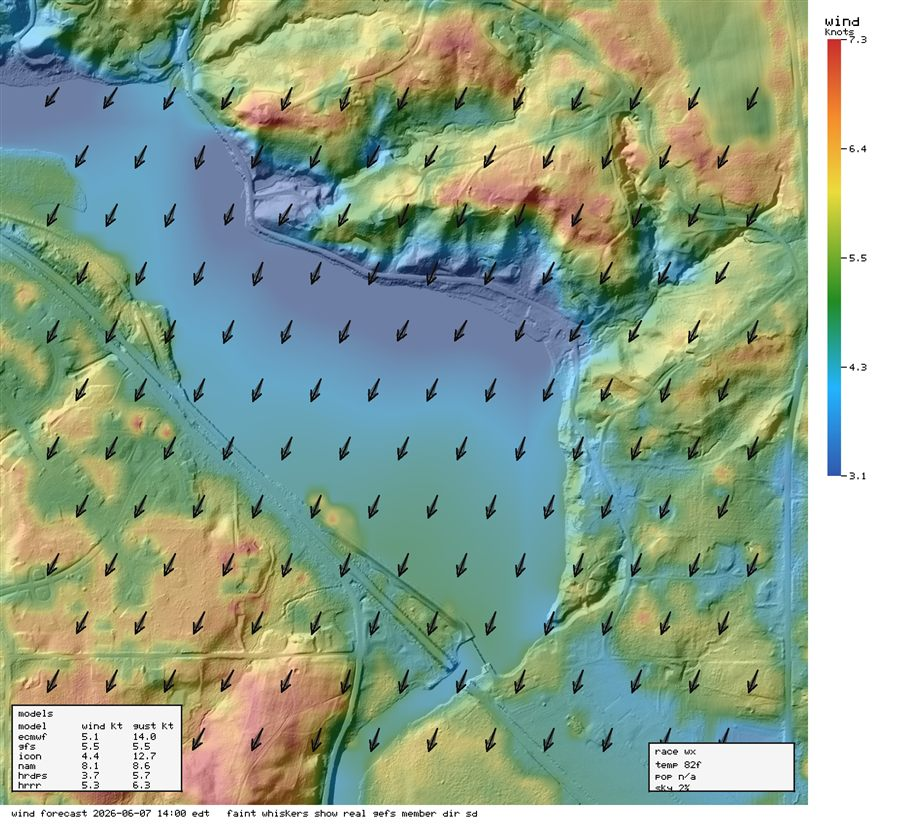
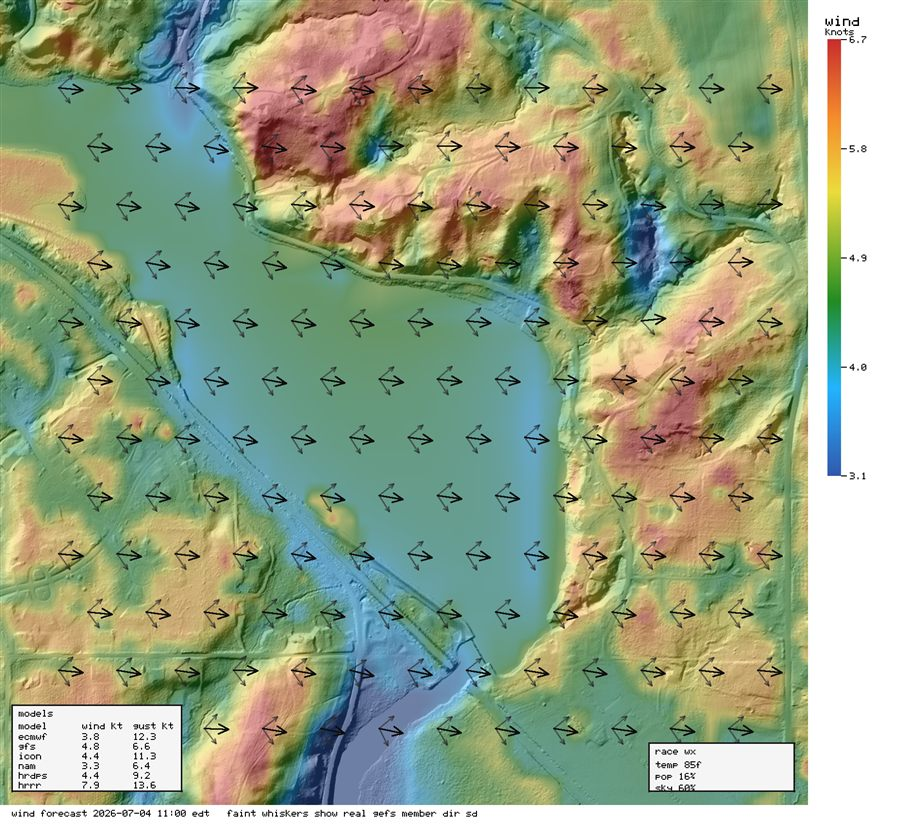
Publish latest PondWind report 2026-07-04 1300

diff --git a/index.html b/index.html
@@ -10,64 +10,64 @@
   <header class="site-header">
     <p class="eyebrow">PondWind</p>
     <h1>Latest Report</h1>
-    <p class="subtitle">Race time: 2026-06-07T14:00:00-04:00</p>
-    <p class="meta">Site: barton_pond &middot; Published: 2026-06-07T15:05:29.5376494Z</p>
+    <p class="subtitle">Race time: 2026-07-04T13:00:00-04:00</p>
+    <p class="meta">Site: barton_pond &middot; Published: 2026-07-03T13:41:22.2967719Z</p>
   </header>
   <main class="product-grid">
       <article class="product-card">
         <div class="product-meta">Wind</div>
         <h2>Wind Speed Prediction</h2>
-        <a href="latest/images/product_1_wind_speed_prediction_knots.png?v=2026-06-07T15%3A05%3A29.5376494Z"><img src="latest/images/product_1_wind_speed_prediction_knots.png?v=2026-06-07T15%3A05%3A29.5376494Z" alt="Wind Speed Prediction"></a>
+        <a href="latest/images/product_1_wind_speed_prediction_knots.png?v=2026-07-03T13%3A41%3A22.2967719Z"><img src="latest/images/product_1_wind_speed_prediction_knots.png?v=2026-07-03T13%3A41%3A22.2967719Z" alt="Wind Speed Prediction"></a>
       </article>
       <article class="product-card">
         <div class="product-meta">Wind</div>
         <h2>Wind Speed Ensemble SD</h2>
-        <a href="latest/images/product_2_wind_speed_variance_knots.png?v=2026-06-07T15%3A05%3A29.5376494Z"><img src="latest/images/product_2_wind_speed_variance_knots.png?v=2026-06-07T15%3A05%3A29.5376494Z" alt="Wind Speed Ensemble SD"></a>
+        <a href="latest/images/product_2_wind_speed_variance_knots.png?v=2026-07-03T13%3A41%3A22.2967719Z"><img src="latest/images/product_2_wind_speed_variance_knots.png?v=2026-07-03T13%3A41%3A22.2967719Z" alt="Wind Speed Ensemble SD"></a>
       </article>
       <article class="product-card">
         <div class="product-meta">Wind</div>
         <h2>Wind Direction Ensemble SD</h2>
-        <a href="latest/images/product_3_wind_direction_variance_degrees.png?v=2026-06-07T15%3A05%3A29.5376494Z"><img src="latest/images/product_3_wind_direction_variance_degrees.png?v=2026-06-07T15%3A05%3A29.5376494Z" alt="Wind Direction Ensemble SD"></a>
+        <a href="latest/images/product_3_wind_direction_variance_degrees.png?v=2026-07-03T13%3A41%3A22.2967719Z"><img src="latest/images/product_3_wind_direction_variance_degrees.png?v=2026-07-03T13%3A41%3A22.2967719Z" alt="Wind Direction Ensemble SD"></a>
       </article>
       <article class="product-card">
         <div class="product-meta">Experimental CFD</div>
         <h2>Experimental CFD/Adapter Comparison</h2>
-        <a href="latest/images/product_4_openfoam_experimental_cfd_knots.png?v=2026-06-07T15%3A05%3A29.5376494Z"><img src="latest/images/product_4_openfoam_experimental_cfd_knots.png?v=2026-06-07T15%3A05%3A29.5376494Z" alt="Experimental CFD/Adapter Comparison"></a>
+        <a href="latest/images/product_4_openfoam_experimental_cfd_knots.png?v=2026-07-03T13%3A41%3A22.2967719Z"><img src="latest/images/product_4_openfoam_experimental_cfd_knots.png?v=2026-07-03T13%3A41%3A22.2967719Z" alt="Experimental CFD/Adapter Comparison"></a>
       </article>
       <article class="product-card">
         <div class="product-meta">Experimental CFD</div>
         <h2>Experimental CFD Turbulence Intensity</h2>
-        <a href="latest/images/product_5_openfoam_turbulence_intensity_percent.png?v=2026-06-07T15%3A05%3A29.5376494Z"><img src="latest/images/product_5_openfoam_turbulence_intensity_percent.png?v=2026-06-07T15%3A05%3A29.5376494Z" alt="Experimental CFD Turbulence Intensity"></a>
+        <a href="latest/images/product_5_openfoam_turbulence_intensity_percent.png?v=2026-07-03T13%3A41%3A22.2967719Z"><img src="latest/images/product_5_openfoam_turbulence_intensity_percent.png?v=2026-07-03T13%3A41%3A22.2967719Z" alt="Experimental CFD Turbulence Intensity"></a>
       </article>
       <article class="product-card">
         <div class="product-meta">Sailing</div>
         <h2>Experimental ILCA Relative Polar</h2>
-        <a href="latest/images/product_6_sailing_polar_dem_overlay.png?v=2026-06-07T15%3A05%3A29.5376494Z"><img src="latest/images/product_6_sailing_polar_dem_overlay.png?v=2026-06-07T15%3A05%3A29.5376494Z" alt="Experimental ILCA Relative Polar"></a>
+        <a href="latest/images/product_6_sailing_polar_dem_overlay.png?v=2026-07-03T13%3A41%3A22.2967719Z"><img src="latest/images/product_6_sailing_polar_dem_overlay.png?v=2026-07-03T13%3A41%3A22.2967719Z" alt="Experimental ILCA Relative Polar"></a>
       </article>
       <article class="product-card">
         <div class="product-meta">Sailing</div>
         <h2>Experimental CFD Relative Polar</h2>
-        <a href="latest/images/product_7_openfoam_sailing_polar_dem_overlay.png?v=2026-06-07T15%3A05%3A29.5376494Z"><img src="latest/images/product_7_openfoam_sailing_polar_dem_overlay.png?v=2026-06-07T15%3A05%3A29.5376494Z" alt="Experimental CFD Relative Polar"></a>
+        <a href="latest/images/product_7_openfoam_sailing_polar_dem_overlay.png?v=2026-07-03T13%3A41%3A22.2967719Z"><img src="latest/images/product_7_openfoam_sailing_polar_dem_overlay.png?v=2026-07-03T13%3A41%3A22.2967719Z" alt="Experimental CFD Relative Polar"></a>
       </article>
       <article class="product-card">
         <div class="product-meta">Satellite</div>
         <h2>Latest RGB Satellite</h2>
-        <a href="latest/images/satellite_rgb_latest.png?v=2026-06-07T15%3A05%3A29.5376494Z"><img src="latest/images/satellite_rgb_latest.png?v=2026-06-07T15%3A05%3A29.5376494Z" alt="Latest RGB Satellite"></a>
+        <a href="latest/images/satellite_rgb_latest.png?v=2026-07-03T13%3A41%3A22.2967719Z"><img src="latest/images/satellite_rgb_latest.png?v=2026-07-03T13%3A41%3A22.2967719Z" alt="Latest RGB Satellite"></a>
       </article>
       <article class="product-card">
         <div class="product-meta">Satellite</div>
         <h2>Surface Temperature Over Water</h2>
-        <a href="latest/images/satellite_sst_latest.png?v=2026-06-07T15%3A05%3A29.5376494Z"><img src="latest/images/satellite_sst_latest.png?v=2026-06-07T15%3A05%3A29.5376494Z" alt="Surface Temperature Over Water"></a>
+        <a href="latest/images/satellite_sst_latest.png?v=2026-07-03T13%3A41%3A22.2967719Z"><img src="latest/images/satellite_sst_latest.png?v=2026-07-03T13%3A41%3A22.2967719Z" alt="Surface Temperature Over Water"></a>
       </article>
       <article class="product-card">
         <div class="product-meta">Satellite</div>
         <h2>Experimental Chlorophyll-a Index</h2>
-        <a href="latest/images/satellite_chla_estimated.png?v=2026-06-07T15%3A05%3A29.5376494Z"><img src="latest/images/satellite_chla_estimated.png?v=2026-06-07T15%3A05%3A29.5376494Z" alt="Experimental Chlorophyll-a Index"></a>
+        <a href="latest/images/satellite_chla_estimated.png?v=2026-07-03T13%3A41%3A22.2967719Z"><img src="latest/images/satellite_chla_estimated.png?v=2026-07-03T13%3A41%3A22.2967719Z" alt="Experimental Chlorophyll-a Index"></a>
       </article>
       <article class="product-card">
         <div class="product-meta">Satellite</div>
         <h2>Experimental Turbidity Index</h2>
-        <a href="latest/images/satellite_turbidity_estimated.png?v=2026-06-07T15%3A05%3A29.5376494Z"><img src="latest/images/satellite_turbidity_estimated.png?v=2026-06-07T15%3A05%3A29.5376494Z" alt="Experimental Turbidity Index"></a>
+        <a href="latest/images/satellite_turbidity_estimated.png?v=2026-07-03T13%3A41%3A22.2967719Z"><img src="latest/images/satellite_turbidity_estimated.png?v=2026-07-03T13%3A41%3A22.2967719Z" alt="Experimental Turbidity Index"></a>
       </article>
   </main>
   <footer class="site-footer">
